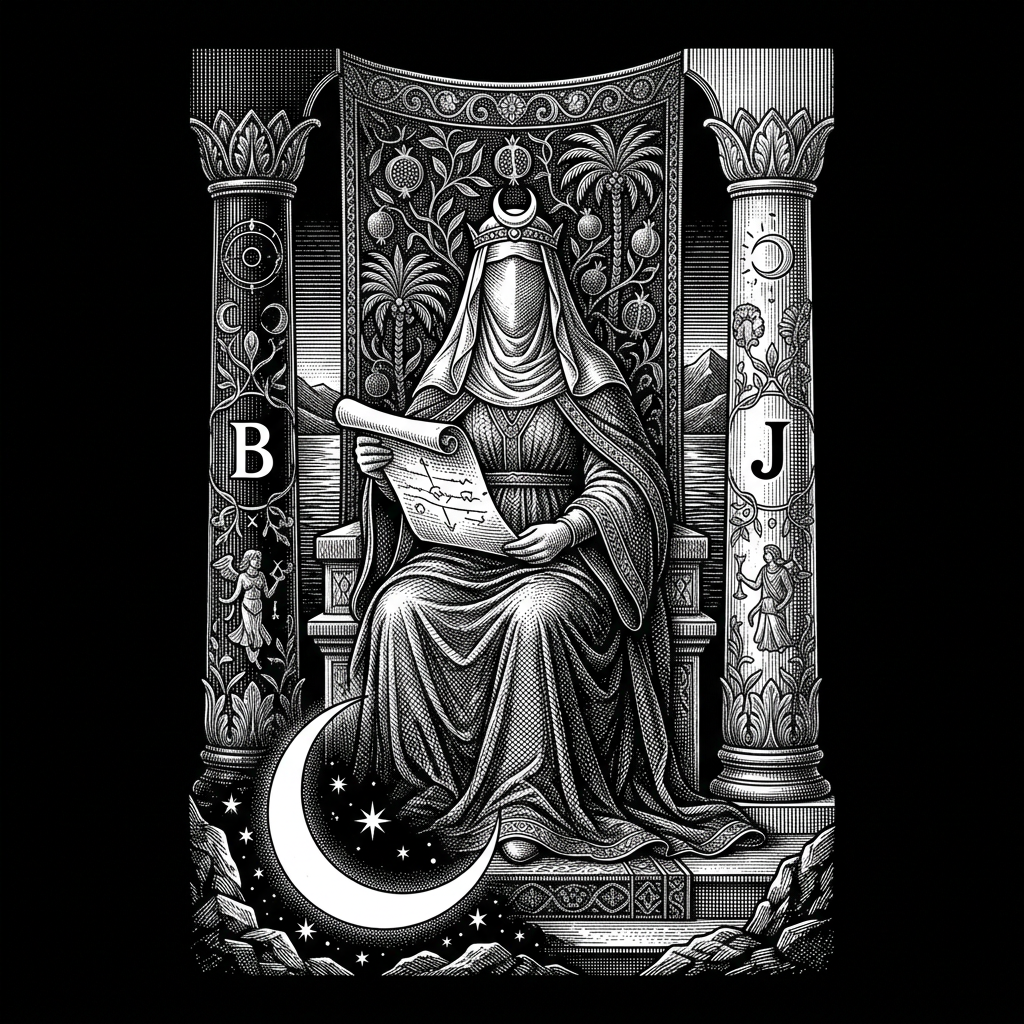
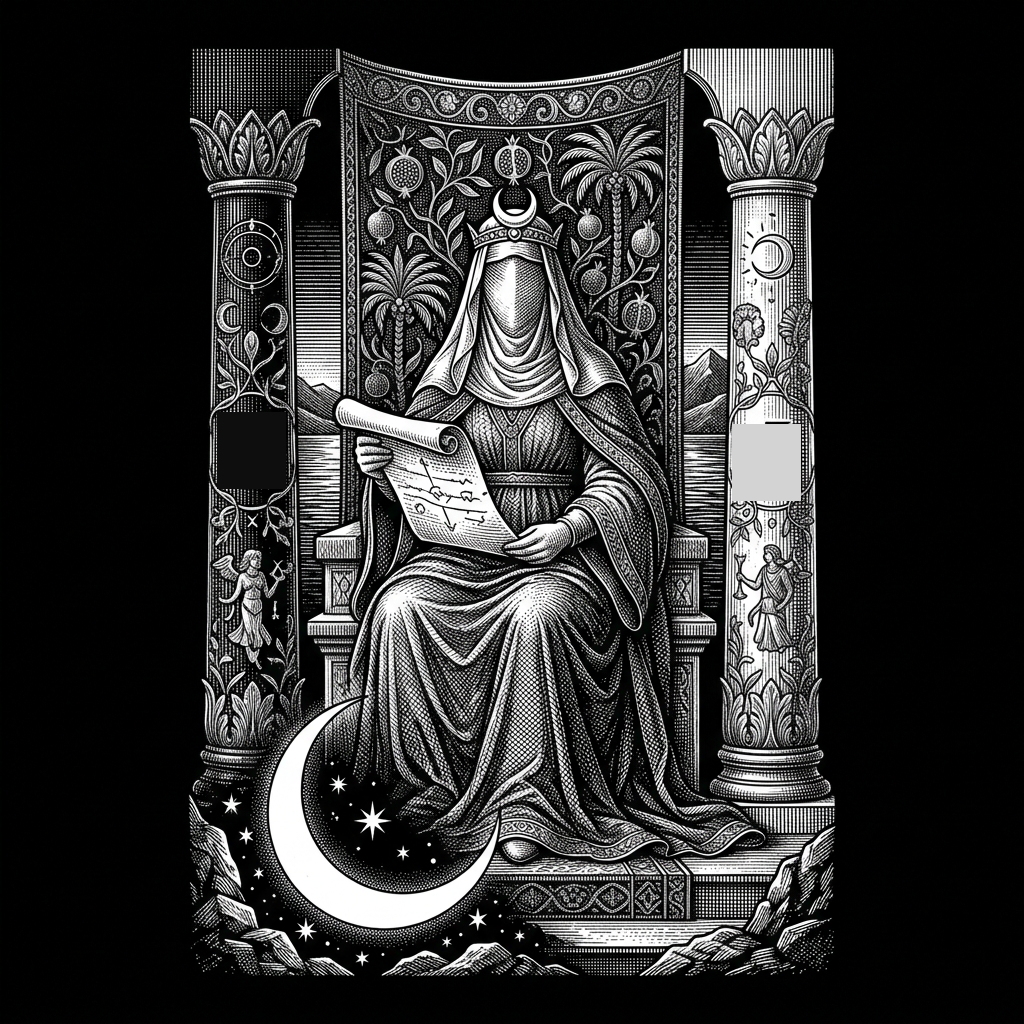
Figure: tolte le lettere dalla Papessa, sfondi grigi e cornici neutralizzati
Claude-Session: https://claude.ai/code/session_01JFnAXpBB8tUhD8EQFyCdTc

Changed region(s): [[0.1875, 0.4062, 0.2812, 0.5], [0.7188, 0.4062, 0.7812, 0.5]]

diff --git a/visuals/render.py b/visuals/render.py
@@ -389,6 +389,12 @@ class Scene:
         if not path:
             return None
         src = Image.open(path).convert("L")
+        m = int(src.width * 0.035)                     # drop any frame the model drew at the edges
+        src = src.crop((m, m, src.width - m, src.height - m))
+        edge = [src.getpixel((x, y)) for x in range(0, src.width, 8) for y in (2, src.height - 3)]
+        edge += [src.getpixel((x, y)) for y in range(0, src.height, 8) for x in (2, src.width - 3)]
+        bg = sorted(edge)[len(edge) // 2] + 10          # grey backgrounds become black
+        src = src.point(lambda v: max(0, min(255, int((v - bg) * 255 / max(1, 255 - bg)))))
         bbox = src.point(lambda v: 255 if v > 40 else 0).getbbox() or (0, 0, *src.size)
         src = src.crop(bbox)
         box = 680
